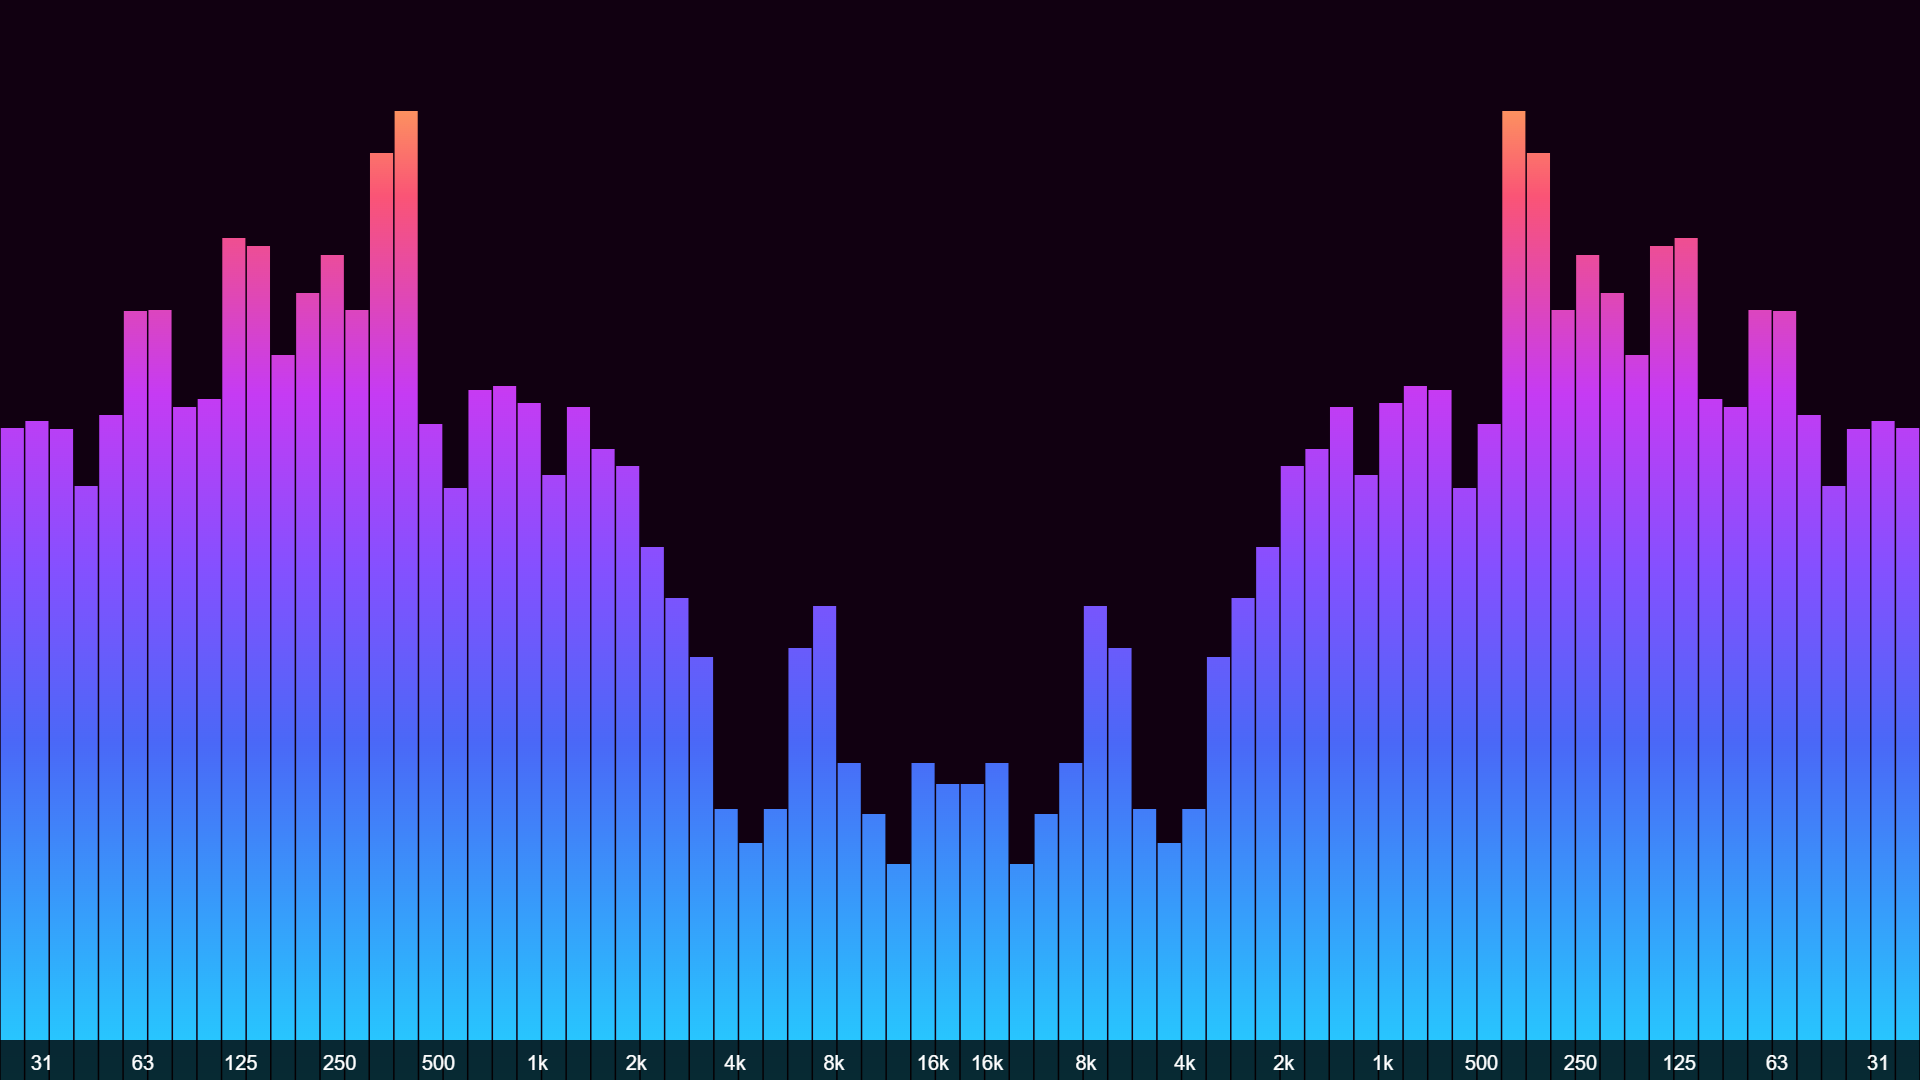
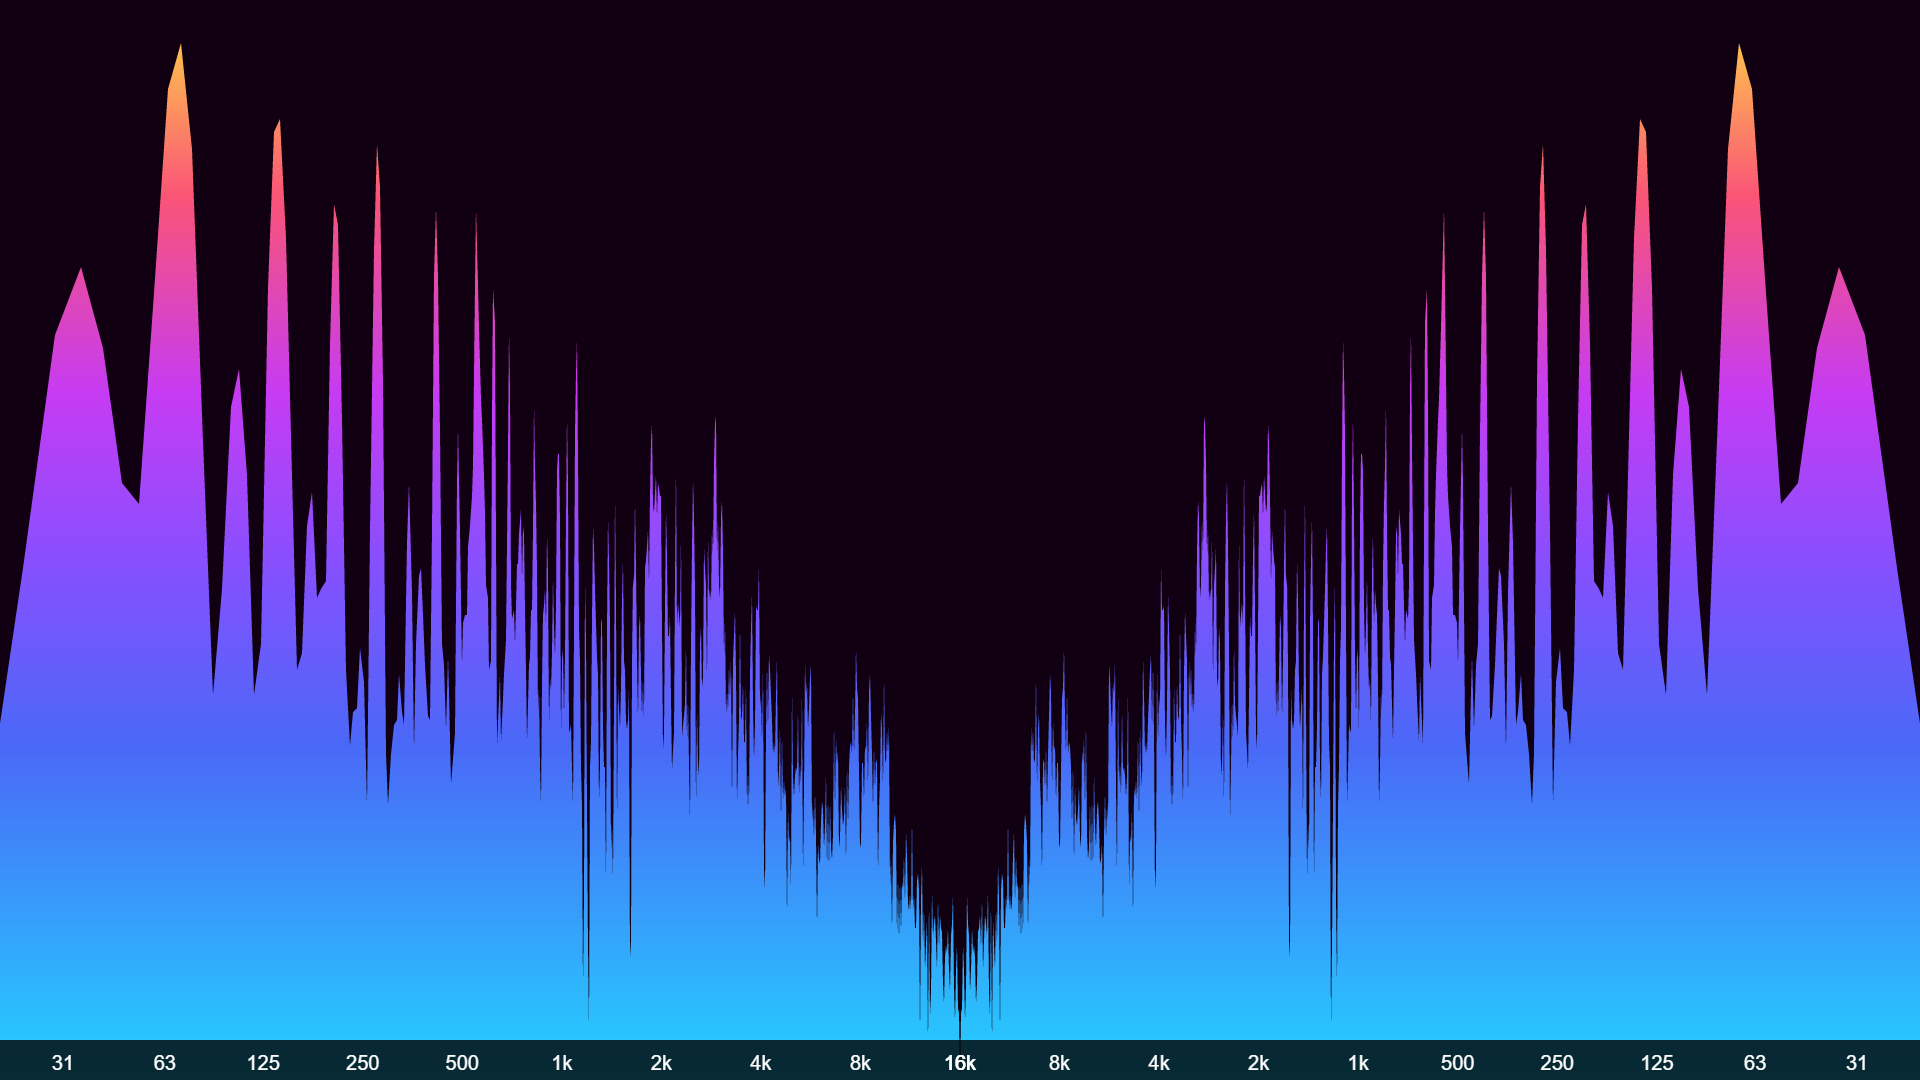
Update documentation.

Changed region(s): [[0.0, 0.0611, 1.0, 1.0]]

diff --git a/public/index.html b/public/index.html
@@ -508,9 +508,9 @@
 				<div>version <span id="version"></span></div>
 				<p>Copyright &copy; 2018-2021 Henrique Avila Vianna</p>
 				<ul>
-					<li><a href="https://audiomotion.me">Documentation</a></li>
+					<li><a href="https://audiomotion.me/users-manual">User's Manual</a></li>
 					<li><a href="https://github.com/hvianna/audioMotion.js/">GitHub</a></li>
-					<li><a href="https://audiomotion.me/#credits">Credits</a></li>
+					<li><a href="https://audiomotion.me/credits">Credits</a></li>
 				</ul>
 			</div>
 			<table class="kbd-table">

diff --git a/docs/styles.css b/docs/styles.css
@@ -20,6 +20,11 @@
 	}
 }
 
+big {
+	font-size: 125%;
+	line-height: 1;
+}
+
 h2 .emoji {
 	height: 1em;
 }
@@ -45,10 +50,6 @@ img {
 
 .cover ul {
 	margin: 2em 0;
-}
-
-.markdown-section h3 ~ h3 {
-	margin-top: 0;
 }
 
 .sidebar > h1 .app-name-link {

diff --git a/docs/users-manual.html b/docs/users-manual.html
@@ -1,0 +1,7 @@
+<!DOCTYPE html>
+<html>
+<head>
+	<meta charset="utf-8">
+	<meta http-equiv="refresh" content="0; URL=/#/users-manual">
+</head>
+</html>

diff --git a/docs/credits.html b/docs/credits.html
@@ -1,0 +1,7 @@
+<!DOCTYPE html>
+<html>
+<head>
+	<meta charset="utf-8">
+	<meta http-equiv="refresh" content="0; URL=/#/?id=credits">
+</head>
+</html>

diff --git a/docs/README.md b/docs/README.md
@@ -11,7 +11,7 @@
 ## Features
 
 * High-resolution real-time dual channel audio spectrum analyzer
-* Fullscreen support at up to 60fps, ready for retina / HiDPI displays
+* Fullscreen and Picture-In-Picture support at up to 60fps, ready for retina / HiDPI displays
 * Logarithmic frequency scale with customizable range
 * Visualize discrete frequencies or octave bands based on the equal tempered scale
 * Optional effects: vintage LEDs, luminance bars, reflection, radial visualization
@@ -23,17 +23,16 @@
 * Lightweight custom file server — also works on standard web servers with minimal configuration
 * Client runs on any modern browser (tested on Chrome, Firefox, Opera and Safari)
 
-## For developers
+?> **For developers:**<br>Check out [**audioMotion-analyzer**](https://audiomotion.dev) for easy integration of audioMotion's full-featured spectrum analyzer into your own Javascript projects!
 
-?> Check out [**audioMotion-analyzer**](https://audiomotion.dev) for easy integration of audioMotion's full-featured spectrum analyzer into your own Javascript projects!
+## Demo
 
-## Live demo
+> ▶ **[https://demo.audiomotion.me](https://demo.audiomotion.me)**
 
-?> [**TRY THE LIVE DEMO**](https://demo.audiomotion.me)
+The demo site includes a few sample songs, radio streams and background images and videos ([credits here](#resources-used-in-the-demo-site)).
+You can also upload audio files from your PC and use the microphone input.
 
-The demo site includes a few songs ([credits here](#music-files-used-in-the-demo-site)) and also allows you to play audio files from your PC, load remote files and streams via URL and use the microphone input.
-
-Also check out our [▶ **YouTube channel**](https://audiomotion.me/yt) for some cool songs visualized with audioMotion!
+Also check out our [**YouTube channel**](https://audiomotion.me/yt) for some cool songs visualized with audioMotion!
 
 ## Getting started
 
@@ -41,7 +40,7 @@ Download the latest version from the [**releases page**](https://github.com/hvia
 
 Launch audioMotion and you'll be asked for the path to your music folder. Only files under that folder will be accessible to the player.
 
-You can also use the command line argument `-m` to set the music folder when launching audioMotion:
+You can also use the command line argument `-m` to set the music folder when launching audioMotion, like so:
 
 ```
 audioMotion -m c:\users\john\music
@@ -62,22 +61,17 @@ The complete command line options are:
 !> **WARNING:**<br>
 Please be aware that using the `-e` flag will expose the contents of the mounted folders to anyone in your network (and potentially to the entire internet!) &mdash; use it only if you're in a trusted network and behind a firewall!
 
+?> See the [**User's Manual**](users-manual.md) for the complete documentation of audioMotion's features and settings.
 
-## Documentation
+## Credits
 
-[![screenshot2](img/screenshot2.png "audioMotion user interface")](user-interface.md)
+### Special thanks <!-- {docsify-ignore} -->
 
-* [User Interface](user-interface.md)
-* [Server modes](server.md)
-* [Building audioMotion](building.md)
-* [Legacy features](legacy.md)
+I would like to thank my wife **Virginia** for her continued support, encouragement and feedback! :kissing_heart:
 
+Thanks to [Yuji Koike](https://www.ykcircus.com/) for [Soniq Viewer for iOS](https://itunes.apple.com/us/app/soniq-viewer/id448343005), which inspired me to create **audioMotion.**
 
-## Credits and acknowledgments
-
-I would like to thank my wife Virginia for her continued support and feedback! :kissing_heart:
-
-**audioMotion** was largely inspired by [Soniq Viewer for iOS](https://itunes.apple.com/us/app/soniq-viewer/id448343005), by Yuji Koike.
+And to all the developers and content creators for the resources listed below.
 
 ### JavaScript libraries <!-- {docsify-ignore} -->
 
@@ -106,20 +100,31 @@ Some of audioMotion's great features are provided by these awesome open-source l
 * [Mouse scroll icon](https://thenounproject.com/term/mouse-scroll/628146/) by Viktor Ostrovsky, licensed under [Creative Commons CCBY](https://creativecommons.org/licenses/by/3.0/us/legalcode)
 * Gradients [*Candy*](https://gradienthunt.com/gradient/172), [*Miami*](https://gradienthunt.com/gradient/950), [*Outrun*](https://gradienthunt.com/gradient/317) and [*Tie Dye*](https://gradienthunt.com/gradient/969) from [Gradient Hunt](https://gradienthunt.com)
 * Gradients *Pacific Dream*, *Shahabi*, *Summer* and *Sunset* from [uiGradients](https://uigradients.com)
-* The *Apple ][* gradient was created based on [this post](https://creativemarket.com/blog/6-famous-logos-with-great-color-schemes) by Creative Market
+* The *Apple &#93;&#91;* gradient was created based on [this post](https://creativemarket.com/blog/6-famous-logos-with-great-color-schemes) by Creative Market
 * Gradients used in the UI buttons are from [ColorZilla's Ultimate CSS Gradient Generator](http://www.colorzilla.com/gradient-editor/)
 * [CSS3 inset text shadow](https://codepen.io/adambundy/pen/HtmaK) by Adam Bundy
 * [CSS slider switches](https://codepen.io/billyysea/pen/CHmiE) by Billy
 * Radial brushed metal texture taken from [this pen](https://codepen.io/GreenSock/pen/gnoDc) by GreenSock
-* Volume knob design based on [Dark dial](https://codepen.io/stormwarning/pen/yNGeMm) by Jeff
+* Knobs design based on [Dark dial](https://codepen.io/stormwarning/pen/yNGeMm) by Jeff
 * Warp effects based on [this pen](https://codepen.io/trangthule/pen/vYmpNYR) by bytrangle
 
-### Music files used in the demo site <!-- {docsify-ignore} -->
+### Resources used in the demo site <!-- {docsify-ignore} -->
 
-* ["Funky Chunk"](https://incompetech.com/music/royalty-free/index.html?isrc=USUAN1500054) by [Kevin MacLeod](https://incompetech.com) - Licensed under [Creative Commons: By Attribution 3.0 License](https://creativecommons.org/licenses/by/3.0/)
-* ["Spell"](https://archive.org/details/Straw_Fields-8753) by [Rolemusic](http://rolemusic.sawsquarenoise.com/) - Licensed under [Creative Commons: By Attribution NonCommercial ShareAlike 3.0 US License](https://creativecommons.org/licenses/by-nc-sa/3.0/us/)
-* ["The Factory"](https://archive.org/details/The_Factory-3613) by [Multifaros](http://multifaros.info.se/) - Licensed under [Creative Commons: By Attribution 3.0 US License](https://creativecommons.org/licenses/by/3.0/us/)
-* ["We Come Together"](https://archive.org/details/ShMusic-DigitalMemories) by [Lukhash](https://lukhash.com) - Licensed under [Creative Commons: By Attribution NonCommercial NoDerivatives 3.0 License](https://creativecommons.org/licenses/by-nc-nd/3.0/)
+* Background images
+  * "Band Performing on Stage" by [Vishnu R Nair](https://unsplash.com/@vishnurnair?utm_source=unsplash&utm_medium=referral&utm_content=creditCopyText) on [Unsplash](https://unsplash.com/?utm_source=unsplash&utm_medium=referral&utm_content=creditCopyText)
+  * "Jewels of the Queen Cassiopeia" by [Aldebaran S](https://unsplash.com/@aldebarans?utm_source=unsplash&utm_medium=referral&utm_content=creditCopyText) on [Unsplash](https://unsplash.com/s/photos/nebula?utm_source=unsplash&utm_medium=referral&utm_content=creditCopyText)
+  * "Music Room" by [John Matychuk](https://unsplash.com/@john_matychuk?utm_source=unsplash&utm_medium=referral&utm_content=creditCopyText) on [Unsplash](https://unsplash.com/?utm_source=unsplash&utm_medium=referral&utm_content=creditCopyText)
+  * "Water Droplets on Glass Window" by [Aleksandar Pasaric](https://www.pexels.com/@apasaric?utm_content=attributionCopyText&amp;utm_medium=referral&amp;utm_source=pexels) from [Pexels](https://www.pexels.com/photo/water-droplets-on-glass-window-2068411/?utm_content=attributionCopyText&amp;utm_medium=referral&amp;utm_source=pexels)
+* Background videos
+  * ["Flying Above Clouds"](https://www.youtube.com/watch?v=XIhEPwTMjWk) by [Relaxation Windows 4K Nature](https://www.youtube.com/channel/UC-he8--TRguZ-nNUSiH77Uw)
+  * ["Smoke and Sparks"](https://www.youtube.com/watch?v=672TY8K2PKk) by [MG1010](https://youtube.com/MG1010)
+  * ["Starfield"](https://www.youtube.com/watch?v=dpVFhuoeMpI) and ["Synthwave Landscape"](https://www.youtube.com/watch?v=3cKq_qBsEQU) by [Facta Non Verba Designs](http://bit.ly/FactaNonVerbaDesignsYT)
+* Music
+  * ["Funky Chunk"](https://incompetech.com/music/royalty-free/index.html?isrc=USUAN1500054) by [Kevin MacLeod](https://incompetech.com) - Licensed under [Creative Commons: By Attribution 3.0 License](https://creativecommons.org/licenses/by/3.0/)
+  * ["Spell"](https://archive.org/details/Straw_Fields-8753) by [Rolemusic](http://rolemusic.sawsquarenoise.com/) - Licensed under [Creative Commons: By Attribution NonCommercial ShareAlike 3.0 US License](https://creativecommons.org/licenses/by-nc-sa/3.0/us/)
+  * ["The Factory"](https://archive.org/details/The_Factory-3613) by [Multifaros](http://multifaros.info.se/) - Licensed under [Creative Commons: By Attribution 3.0 US License](https://creativecommons.org/licenses/by/3.0/us/)
+  * ["We Come Together"](https://archive.org/details/ShMusic-DigitalMemories) by [Lukhash](https://lukhash.com) - Licensed under [Creative Commons: By Attribution NonCommercial NoDerivatives 3.0 License](https://creativecommons.org/licenses/by-nc-nd/3.0/)
+  * Web radios: [Classic FM](https://classicfm.com), [Dance Wave!](https://dancewave.online), [Ibiza Global Radio](https://ibizaglobalradio.com), [jazz 4 ever](http://jazz4ever.net), [Nightride FM](https://nightride.fm)
 
 ### References <!-- {docsify-ignore} -->
 
@@ -130,7 +135,7 @@ These online references were invaluable for the development and improvement of a
 * [Web Audio API Specification](https://webaudio.github.io/web-audio-api/)
 * [What does the FFT data in the Web Audio API correspond to?](https://stackoverflow.com/a/14789992/2370385)
 * [HTML5 check if audio is playing?](https://stackoverflow.com/a/46117824/2370385)
-* [Unlocking Web Audio — the smarter way](https://hackernoon.com/unlocking-web-audio-the-smarter-way-8858218c0e09)
+* [Unlocking Web Audio — the smarter way](https://hackernoon.com/unlocking-web-audio-the-smarter-way-8858218c0e09)
 * [Equations for equal-tempered scale frequencies](http://pages.mtu.edu/~suits/NoteFreqCalcs.html)
 * Pure CSS modal windows based on [this pen](https://codepen.io/timothylong/pen/HhAer) by Timothy Long and [CSS Modal](https://drublic.github.io/css-modal/) by Hans Christian Reinl
 

diff --git a/docs/users-manual.md b/docs/users-manual.md
@@ -1,6 +1,6 @@
-# User Interface
+# User's Manual
 
-![screenshot1](img/screenshot1.png "audioMotion user interface")
+![screenshot2](img/screenshot2.png)
 
 ## Top panel buttons
 
@@ -86,7 +86,7 @@ Saved playlists are stored locally in your browser and appear in the playlist se
 
 Select a playlist and click one of the buttons:
 
-| button | action |
+| Button | Action |
 |:-------|:-------|
 | ![folder-button](img/folder-button.png "folder") | Load the selected playlist. Please note that the playlist contents will be **added** to the current queue. |
 | ![disk-button](img/save-button.png "floppy disk") | Update the selected playlist with the current queue contents |
@@ -100,12 +100,12 @@ Select a playlist and click one of the buttons:
 
 Selects the visualization mode.
 
-| Mode | description |
+| Mode | Description |
 |------|-------------|
-**Discrete frequencies** | displays amplitudes of individual frequencies, as provided by the [FFT](https://en.wikipedia.org/wiki/Fast_Fourier_transform) computation
-**Area graph** | uses the discrete frequency data points to create a filled area graph
-**Line graph** | connects all the discrete data points in a continuous line graph - [line width and fill opacity](#line-width-and-fill-opacity) can be customized
-**Octave bands** | groups frequencies in bands, each one representing a full, half or the *n*th part of an octave, depending on the selected option
+**Discrete frequencies** | Displays amplitudes of individual frequencies, as provided by the [FFT](https://en.wikipedia.org/wiki/Fast_Fourier_transform) computation
+**Area graph** | Uses the discrete frequency data points to create a filled area graph
+**Line graph** | Connects all the discrete data points in a continuous line graph - [line width and fill opacity](#line-width-and-fill-opacity) can be customized
+**Octave bands** | Frequencies are grouped in bands, each one representing the *n*th part of an octave
 
 You can also select the visualization mode using the **M** and **Shift + M** keyboard shortcuts.
 
@@ -125,7 +125,7 @@ You can choose which settings may be changed by random mode in the [Config panel
 
 This setting is effective only when an [octave bands mode](#mode) is selected. Avaliable options are:
 
-| Bar Spacing | description |
+| Bar Spacing | Description |
 |-------------|-------------|
 **Legacy** | ~1px spacing between analyzer bars
 **Narrow** | 10% spacing, 90% bar width (default)
@@ -151,10 +151,10 @@ These settings are effective only for [Line graph mode](#mode) or when [OUTLINE]
 
 Several options of color gradients for the analyzer graphs. You can also change gradients using the **G** and **Shift + G** keyboard shortcuts.
 
-| Switch | description |
+| Switch | Description |
 |:-------|:------------|
-| **AUTO** | select the **next gradient** on each track change, or a **random gradient** on each mode change when [Random mode](#random-mode) is active |
-| **SPLIT** | when [Stereo](#switches) is active, splits the gradient between both channels, so each channel will have different colors |
+| **AUTO** | Select the **next gradient** on each track change, or a **random gradient** on each mode change when [Random mode](#random-mode) is active |
+| **SPLIT** | When [Stereo](#switches) is active, splits the gradient between both channels, so each channel will have different colors |
 
 ### Effects
 
@@ -162,12 +162,12 @@ Several options of color gradients for the analyzer graphs. You can also change 
 
 Select additional visualization effects for **octave bands modes.**
 
-| Effect | description | example (on) |
+| Effect | Description | Example |
 |:-------|:------------|:------------:|
-| **LEDS** | toggle the vintage LED effect for the analyzer bars | <img src="img/leds.png" width="480">
-| **LUMI** | toggle the luminance bars effect - all analyzer bars are displayed at full-height, varying their luminance instead | <img src="img/screenshot5.png" width="480">
-| **ALPHA** | toggle varying bar transparency - the higher the bar amplitude the more opaque it is (also works on *Discrete frequencies* mode) | <img src="img/alpha-on-off.webp" width="480">
-| **OUTLINE** | toggle bar outline mode - see [Line width and Fill opacity](#line-width-and-fill-opacity) settings | <img src="img/outline.png" width="480">
+| **LEDS** | Toggle the vintage LED effect for the analyzer bars | <img src="img/leds.png" width="480">
+| **LUMI** | Toggle the luminance bars effect - all analyzer bars are displayed at full-height, varying their luminance instead | <img src="img/screenshot5.png" width="480">
+| **ALPHA** | Toggle varying bar transparency - the higher the bar amplitude the more opaque it is (also works on *Discrete frequencies* mode) | <img src="img/alpha-on-off.webp" width="480">
+| **OUTLINE** | Toggle bar outline mode - see [Line width and Fill opacity](#line-width-and-fill-opacity) settings | <img src="img/outline.png" width="480">
 
 ### Radial
 
@@ -179,8 +179,8 @@ You can also toggle the radial analyzer with the **C** keyboard shortcut.
 
 The **SPIN** slider allows you to configure the analyzer spinning speed, when in radial mode.
 
-| Radial Mono | Radial Stereo |
-|:-----------:|:-------------:|
+| Radial | Radial + Stereo |
+|:------:|:---------------:|
 | ![screenshot7](img/screenshot7.png) | ![radial-stereo](img/radial-stereo.png)
 
 ### Background
@@ -189,13 +189,13 @@ The **SPIN** slider allows you to configure the analyzer spinning speed, when in
 
 Selects the analyzer background.
 
-| Background | description |
+| Background | Description |
 |------------|-------------|
-| **Gradient default** | uses the background color defined by the currently selected gradient - when the [LED effect](#effects) is on, this shows the "unlit" LEDs instead |
-| **Black** | uses a black background |
-| **Album cover** | displays the album cover for the current song<sup> (1)</sup> |
-| **Random image** | selects a random image from the backgrounds folder<sup> (2)</sup> |
-| **Random video** | selects a random video from the backgrounds folder<sup> (2)</sup> |
+| **Gradient default** | Uses the background color defined by the currently selected gradient - when the [LED effect](#effects) is on, this shows the "unlit" LEDs instead |
+| **Black** | Uses a black background |
+| **Album cover** | Displays the album cover for the current song<sup> (1)</sup> |
+| **Random image** | Selects a random image from the backgrounds folder<sup> (2)</sup> |
+| **Random video** | Selects a random video from the backgrounds folder<sup> (2)</sup> |
 
 <sup>**( 1 )**</sup> Album covers will be preferably retrieved from song metadata. When a picture is not found in the metadata, **audioMotion** will look for image files (jpg, png, gif, webp, avif or bmp)
 in the song's folder, and will pick any image which filename contains the words *cover*, *folder* or *front* (in this order), or the first image found otherwise.
@@ -246,11 +246,11 @@ When [Background](#background) is set to an image (including the Album cover) or
 
 **Mirror** selects the horizontal mirroring effect to the left (low frequencies at the center) or to the right (high frequencies at the center).
 
-| Reflex On | Reflex Mirrored |
+| Reflex: On | Reflex: Mirrored |
 |:-----------:|:-------------:|
 | ![reflex-on](img/reflex-on.png) | ![reflex-mirrored](img/reflex-mirrored.png)
 
-| Mirror Left | Mirror Right |
+| Mirror: Left | Mirror: Right |
 |:-----------:|:-------------:|
 | ![mirror-left](img/mirror-left.png) | ![mirror-right](img/mirror-right.png)
 
@@ -300,11 +300,8 @@ You can also use the **Shift** + **Up** and **Down** arrows to adjust the analyz
 | **STEREO** | toggle dual channel display, with separate analyzer graphs for left and right channels. This setting does NOT change the audio output of stereo songs. |
 | **FPS** | show current framerate at the top right corner |
 
-![screenshot3](img/screenshot3.png)
-*Fullscreen view: 1/6th-octave bands, regular bar spacing, "Outrun" gradient, [Reflex](user-interface.md#reflex) effect and complete on-screen information.*
-
 ![screenshot6](img/screenshot6.png)
-*Fullscreen view: [Stereo](#switches) Line graph, frequency and level scales on, "Rainbow" gradient.*
+_**STEREO** Line graph, with frequency (SCALEX) and level (SCALEY) scales turned on._
 
 ### Preset
 

diff --git a/docs/coverpage.md b/docs/coverpage.md
@@ -7,7 +7,7 @@
 - Several modes, color gradients and optional effects
 - Fullscreen high-resolution graphics @60fps
 
-[Live demo](https://demo.audiomotion.me)
+[Demo](https://demo.audiomotion.me)
 [About](/#about)
 [Get Started](/#getting-started)
 

diff --git a/docs/sidebar.md b/docs/sidebar.md
@@ -1,5 +1,5 @@
 * [Home](/)
-* [User Interface](/user-interface)
+* [User's Manual](/users-manual)
 * [Server modes](/server)
 * [Building](/building)
 * [Legacy features](/legacy)
